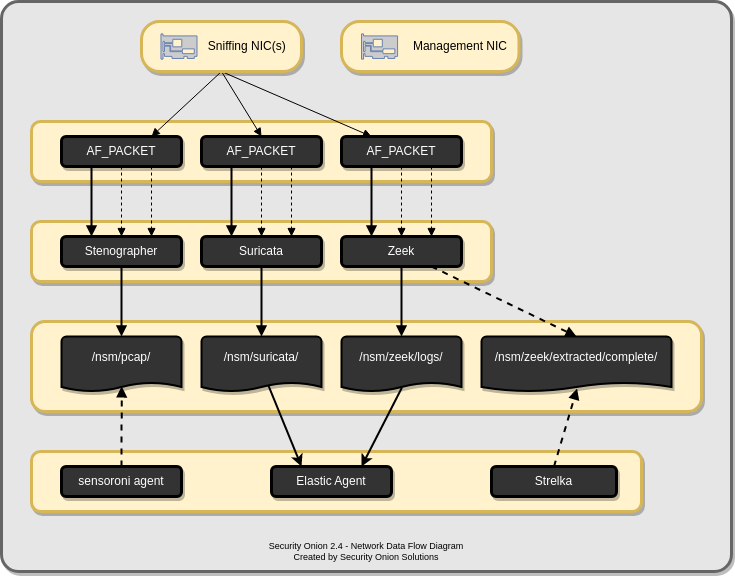
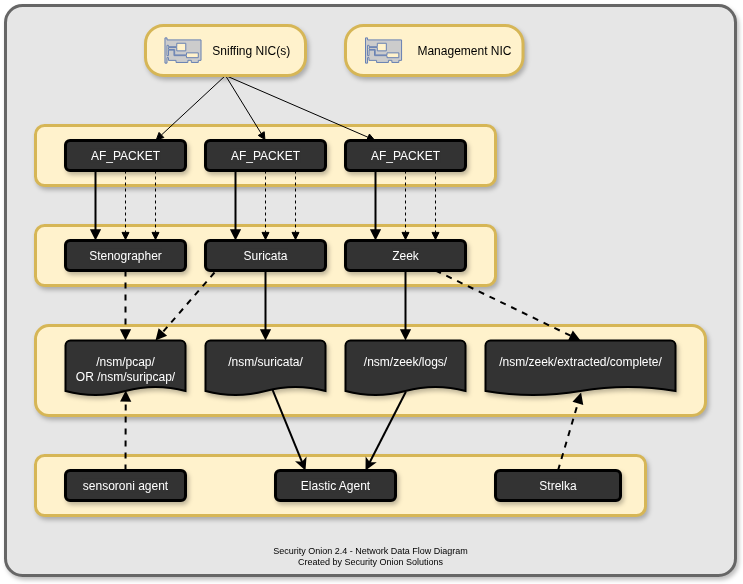
update diagram and docs to reflect the fact that Suricata can write full packet capture to /nsm/suripcap/

Changed region(s): [[0.0, 0.0, 1.0, 1.0], [0.6286, 0.2188, 0.6884, 0.3125]]

diff --git a/suricata.rst b/suricata.rst
@@ -108,7 +108,7 @@ If you choose Suricata for metadata, it will extract files from network traffic 
 PCAP
 ----
 
-For new installations in either ``Eval`` or ``Standalone`` mode, full packet capture is written to disk by Suricata. For other deployments, full packet capture is written to disk by :ref:`stenographer` but you can optionally switch this to Suricata.
+For new installations in either ``Eval`` or ``Standalone`` mode, full packet capture is written to ``/nsm/suripcap/`` by Suricata. For other deployments, full packet capture is written to disk by :ref:`stenographer` but you can optionally switch this to Suricata.
 
 Switching PCAP from Stenographer to Suricata
 ~~~~~~~~~~~~~~~~~~~~~~~~~~~~~~~~~~~~~~~~~~~~
